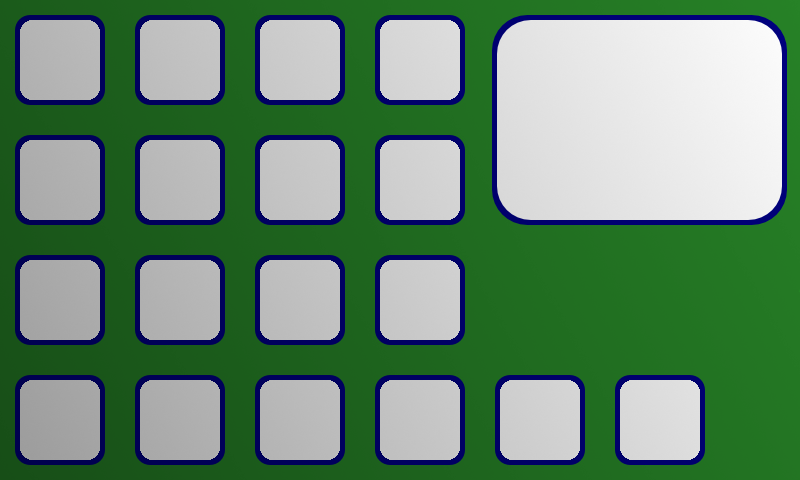
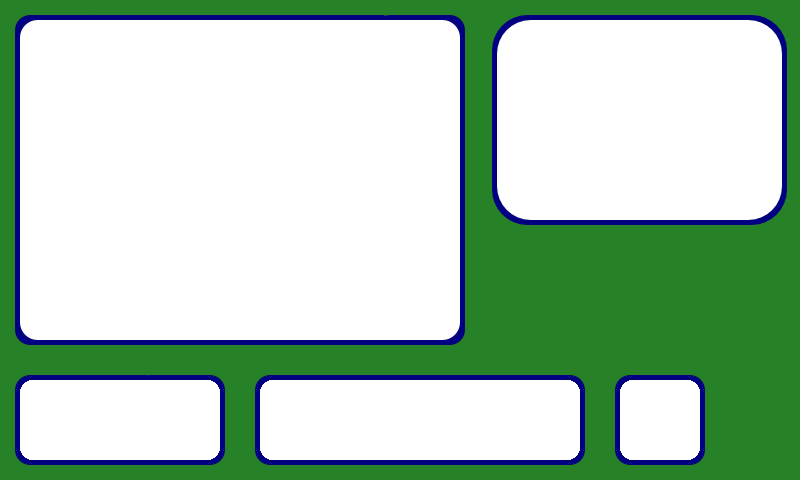
Changed inventory look, buttons, and MenuItem.cs
Changed how the inventory looks.
Changed how MenuItem.cs takes its drawbox
   Now accepts "percent points" of the total screen realastate for
   it's drawbos. This allows for proper scaling.
Changed the coordinates of the main menu button to accomodate the new
percent points system.
Menu.cs now takes two paramaters: The current screen x and y coordinates
of the screen you want it to scale to.

diff --git a/PantheonPrototype/PantheonPrototype/HUD/Menu.cs b/PantheonPrototype/PantheonPrototype/HUD/Menu.cs
@@ -34,11 +34,14 @@ namespace PantheonPrototype
             set { menuState = value; }
         }
 
-        public Menu()
+        public Menu(int SCREEN_WIDTH, int SCREEN_HEIGHT)
         {
             items = new Dictionary<string, MenuItem>();
             inventoryButtons = new Dictionary<string, MenuItem>();
             menuState = "main";
+
+            this.SCREEN_WIDTH = SCREEN_WIDTH;
+            this.SCREEN_HEIGHT = SCREEN_HEIGHT;
         }
 
         public void Load(Pantheon gameReference)
@@ -51,9 +54,6 @@ namespace PantheonPrototype
 
             inventoryBackground = gameReference.Content.Load<Texture2D>("InventoryBackground");
             inventoryBackgroundTex = gameReference.Content.Load<Texture2D>("InventoryBackgroundTexture");
-
-            SCREEN_WIDTH = gameReference.GraphicsDevice.Viewport.Width;
-            SCREEN_HEIGHT = gameReference.GraphicsDevice.Viewport.Height;
             
             loadDefaultMenu(gameReference);
         }
@@ -64,36 +64,36 @@ namespace PantheonPrototype
         /// <param name="gameReference">The whole game.</param>
         private void loadDefaultMenu(Pantheon gameReference)
         {
-            MenuItem resumeItem = new MenuItem("Resume", new Rectangle((mainBackgroundRect.Width - 250) / 2 + mainBackgroundRect.X,
-                mainBackgroundRect.Y + 25, 250, 50));
+            MenuItem resumeItem = new MenuItem("Resume", new Rectangle((int)(50 - (15 * SCREEN_WIDTH) / SCREEN_WIDTH),
+                ((mainBackgroundRect.Y * 100)/ SCREEN_HEIGHT) + 3, 30, 7), new Vector2(SCREEN_WIDTH, SCREEN_HEIGHT));
+            //MenuItem resumeItem = new MenuItem("Resume", new Rectangle(20,20,30,5), new Vector2(SCREEN_WIDTH, SCREEN_HEIGHT));
             resumeItem.Load(gameReference);
             items.Add("resume", resumeItem);
-
-            MenuItem exitItem = new MenuItem("Exit", new Rectangle((mainBackgroundRect.Width - 250) / 2 + mainBackgroundRect.X,
-                mainBackgroundRect.Y + 100, 250, 50));
+            MenuItem exitItem = new MenuItem("Exit", new Rectangle((int)(50 - (15 * SCREEN_WIDTH) / SCREEN_WIDTH),
+                ((mainBackgroundRect.Y * 100) / SCREEN_HEIGHT) + 13, 30, 7), new Vector2(SCREEN_WIDTH, SCREEN_HEIGHT));
             exitItem.Load(gameReference);
             items.Add("exit", exitItem);
 
-            MenuItem inventoryItem = new MenuItem("Inventory", new Rectangle((mainBackgroundRect.Width - 250) / 2 + mainBackgroundRect.X,
-                mainBackgroundRect.Y + 175, 250, 50));
+            MenuItem inventoryItem = new MenuItem("Inventory", new Rectangle((int)(50 - (15 * SCREEN_WIDTH) / SCREEN_WIDTH),
+                ((mainBackgroundRect.Y * 100) / SCREEN_HEIGHT) + 23, 30, 7), new Vector2(SCREEN_WIDTH, SCREEN_HEIGHT));
             inventoryItem.Load(gameReference);
             items.Add("inventory", inventoryItem);
 
-            // This is not the default menu, but I wasn't sure where else to put it.
+            // This following is not the default menu, but I wasn't sure where else to put it.
 
-            MenuItem equipInventory = new MenuItem("Equip/Use", new Rectangle(480, 230, 150, 50));
+            MenuItem equipInventory = new MenuItem("Equip/Use", new Rectangle(62, 48, 17, 6), new Vector2(SCREEN_WIDTH, SCREEN_HEIGHT));
             equipInventory.Load(gameReference);
             inventoryButtons.Add("equip", equipInventory);
 
-            MenuItem trashInventory = new MenuItem("Trash", new Rectangle(640, 230, 150, 50));
+            MenuItem trashInventory = new MenuItem("Trash", new Rectangle(81, 48, 17, 6), new Vector2(SCREEN_WIDTH, SCREEN_HEIGHT));
             trashInventory.Load(gameReference);
             inventoryButtons.Add("trash", trashInventory);
 
-            MenuItem resumeInventory = new MenuItem("Resume", new Rectangle(480, 305, 150, 50));
+            MenuItem resumeInventory = new MenuItem("Resume", new Rectangle(62, 57, 36, 6), new Vector2(SCREEN_WIDTH, SCREEN_HEIGHT));
             resumeInventory.Load(gameReference);
             inventoryButtons.Add("resumeInv", resumeInventory);
 
-            MenuItem mainInventory = new MenuItem("Main Menu", new Rectangle(640, 305, 150, 50));
+            MenuItem mainInventory = new MenuItem("Main Menu", new Rectangle(62, 66, 36, 6), new Vector2(SCREEN_WIDTH, SCREEN_HEIGHT));
             mainInventory.Load(gameReference);
             inventoryButtons.Add("mainMenu", mainInventory);
         }

diff --git a/PantheonPrototype/PantheonPrototype/HUD/MenuItem.cs b/PantheonPrototype/PantheonPrototype/HUD/MenuItem.cs
@@ -44,10 +44,23 @@ namespace PantheonPrototype
             set { drawBox = value; }
         }
 
-        public MenuItem(string text, Rectangle drawBox)
+        /// <summary>
+        /// Creats a new menu item with the text "text" at the location of "percentDrawBox."
+        /// percentDrawBox is given as the "percent points" of the screen.
+        /// </summary>
+        /// <param name="text"></param>
+        /// <param name="percentDrawBox"></param>
+        /// <param name="screenCoordinates"></param>
+        public MenuItem(string text, Rectangle percentDrawBox, Vector2 screenCoordinates)
         {
             this.text = text;
-            this.drawBox = drawBox;
+            
+            int xCoord = (int)(percentDrawBox.X/100.0 * screenCoordinates.X);
+            int yCoord = (int)(percentDrawBox.Y/100.0 * screenCoordinates.Y);
+            int width = (int)(percentDrawBox.Width/100.0 * screenCoordinates.X);
+            int height = (int)(percentDrawBox.Height/100.0 * screenCoordinates.Y);
+
+            this.drawBox = new Rectangle(xCoord, yCoord, width, height);
             this.isSelected = false;
         }
 

diff --git a/PantheonPrototype/PantheonPrototype/Pantheon.cs b/PantheonPrototype/PantheonPrototype/Pantheon.cs
@@ -72,7 +72,7 @@ namespace PantheonPrototype
             int SCREEN_WIDTH = GraphicsDevice.Viewport.Width;
             int SCREEN_HEIGHT = GraphicsDevice.Viewport.Height;
 
-            menu = new Menu();
+            menu = new Menu(SCREEN_WIDTH, SCREEN_HEIGHT);
 
             debugFont = Content.Load<SpriteFont>("DebugFont");
 
